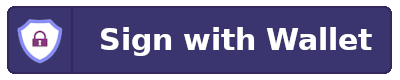
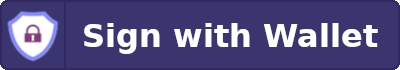
GitBook: [#11] updated the sign with wallet button

diff --git a/docs/use-cases/nodejs-backend-implementation/5.-code-the-views.md b/docs/use-cases/nodejs-backend-implementation/5.-code-the-views.md
@@ -9,15 +9,15 @@ Could I get signed in ???
 <br />
 
 <a href="/auth/siww">
-    <img src="../../assets/siww_button.png" style="width: 250px; height: 50px;"
+    <img src="../../assets/siww_button.png" style="width: 285px; height: 50px;"
     />
 </a>
 
 ```
 
-You can download the image below and insert it in your application. Note that the resolution is large (400x80px), so you may need to resize it to your need. See in the page example above, we resized to  250x50px
+You can download the image below and insert it in your application. Note that the resolution is large (400x70px), so you may need to resize it to your need. See in the page example above, we resized to  285x50px
 
-<figure><img src="../../.gitbook/assets/siww_button.png" alt=""><figcaption></figcaption></figure>
+<figure><img src="../../.gitbook/assets/siww_button.png" alt=""><figcaption><p>Official Sign with Wallet button</p></figcaption></figure>
 
 Then build another page for post-login, which will display the values returned by SIWW at authentication time. For example, we can code the _dashboard.hbs_ page as per below.
 
